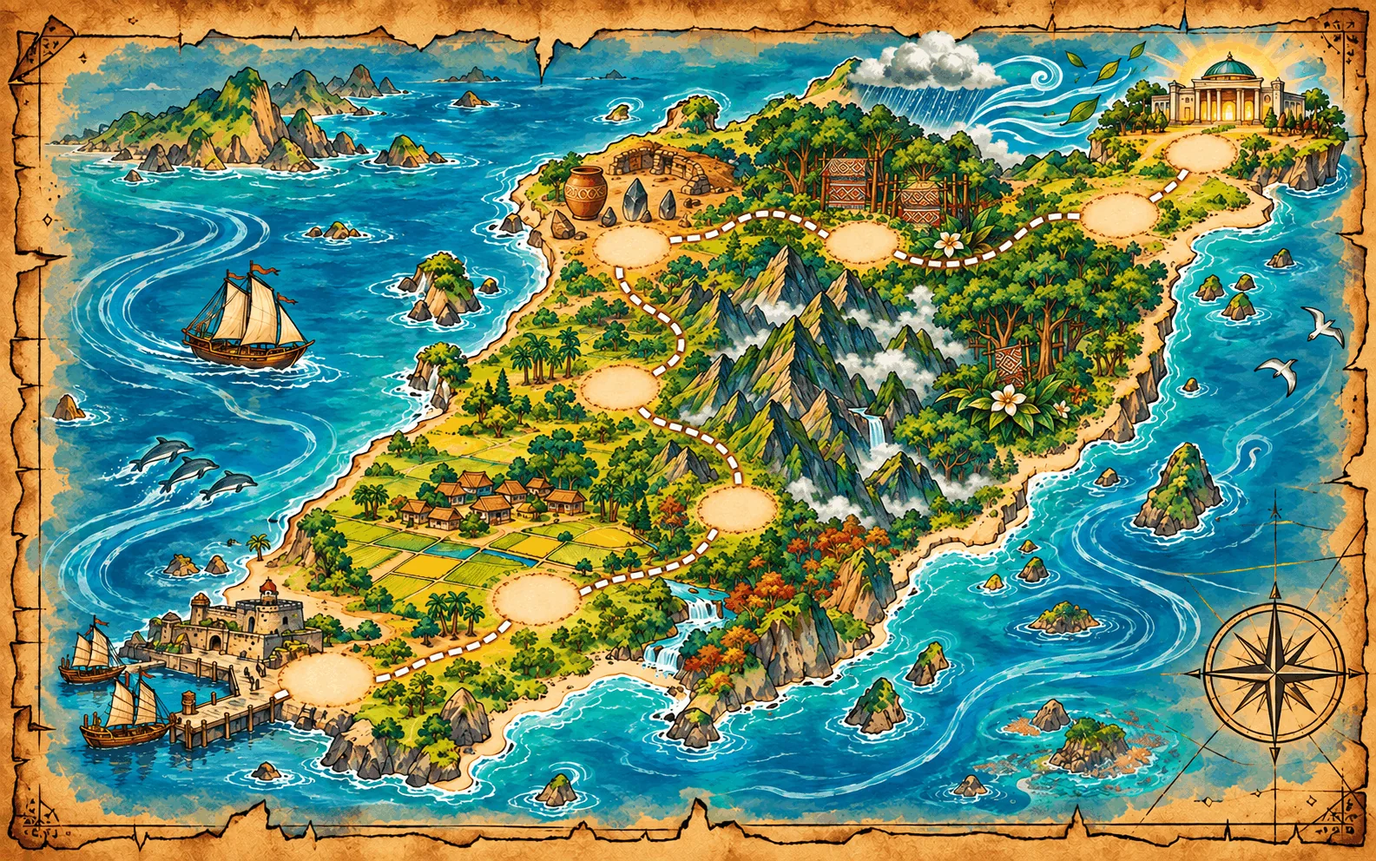
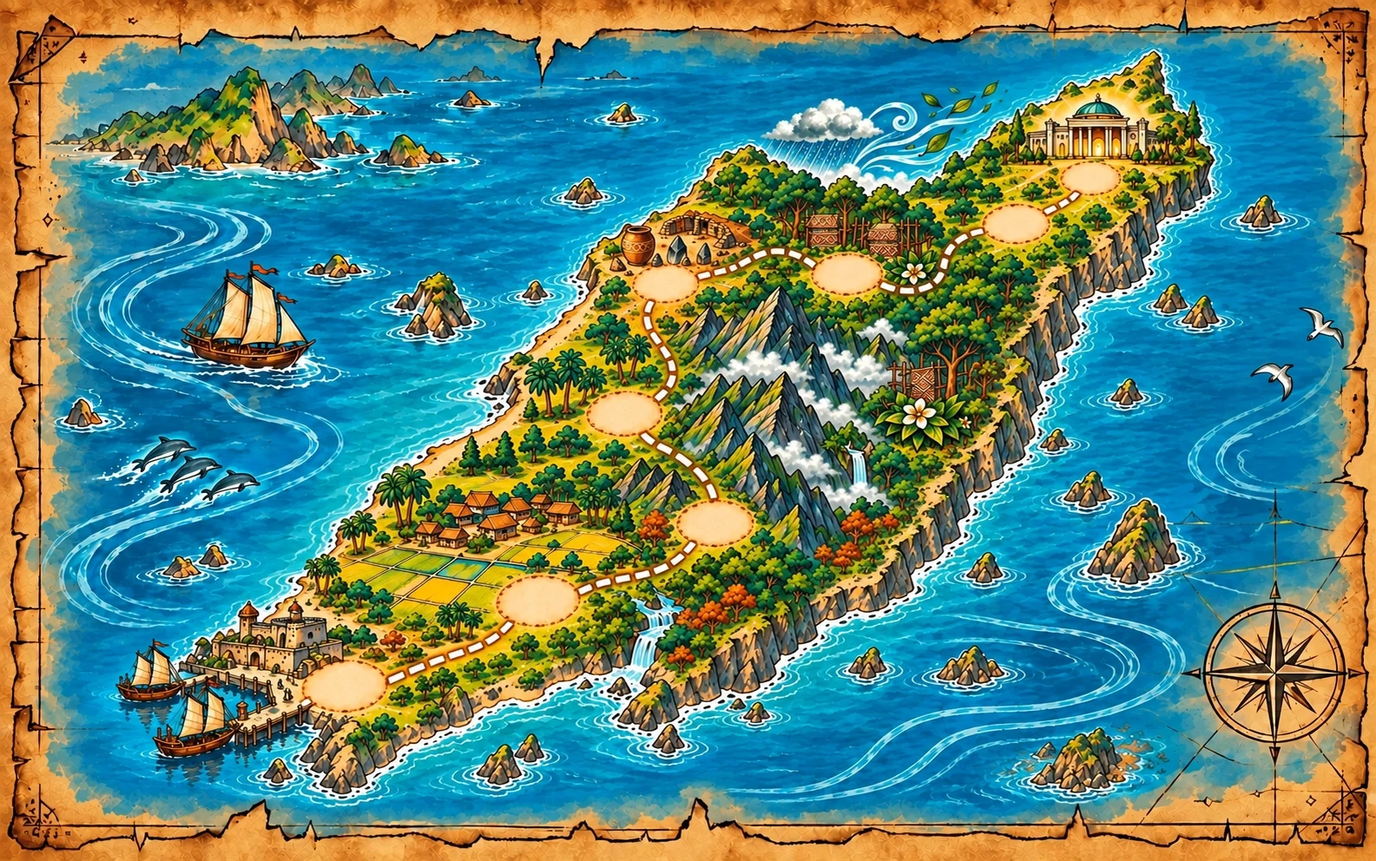
更新臺灣行動地圖與守護心延續機制

diff --git a/歷史文物守護行動完整版.html b/歷史文物守護行動完整版.html
@@ -112,7 +112,7 @@
     .map-level .map-label{font-size:.9rem}.map-level .map-label small{font-size:.85rem}
     @media(max-width:430px){.progress-track{display:none}.progress-label{font-size:.95rem}.tools{display:grid;grid-template-columns:repeat(3,minmax(0,1fr))}.progress{grid-column:1/-1}.tools .mini{padding-inline:5px}}
       .screen button:focus-visible{outline:4px solid var(--ink);outline-offset:3px}.hero button:focus-visible{outline-color:#ffe08a}.map-scroll:focus-visible{outline:4px solid var(--ink);outline-offset:3px}
-    .map-level.pos-1{left:24%;top:79%}.map-level.pos-2{left:39%;top:69%}.map-level.pos-3{left:54%;top:59%}.map-level.pos-4{left:45%;top:45%}.map-level.pos-5{left:45%;top:29%}.map-level.pos-6{left:63%;top:27%}.map-level.pos-7{left:81%;top:25%}.map-level.pos-8{left:88%;top:17%}
+    .map-level.pos-1{left:25%;top:80%}.map-level.pos-2{left:39%;top:69%}.map-level.pos-3{left:52%;top:60%}.map-level.pos-4{left:45%;top:48%}.map-level.pos-5{left:49%;top:33%}.map-level.pos-6{left:61%;top:32%}.map-level.pos-7{left:73%;top:26%}.map-level.pos-8{left:80%;top:20%}
     /* 四幕沿用各自插畫的留白，文字在獨立深色區域閱讀 */
     .story-stage{max-width:none}
     .story-card.has-art{position:relative;isolation:isolate;display:grid;grid-template-columns:minmax(0,1fr) minmax(0,1fr);min-height:640px;aspect-ratio:3/2;overflow:hidden;padding:0;background:#102b3e;color:#fff8e9;border:1px solid #d3a23f}
@@ -465,7 +465,7 @@ const levels=[
 const items=[
  {id:"compass",name:"航海羅盤",icon:"🧭",image:"assets/howto-01-compass.webp",unlock:1,desc:"每場可移除一個錯誤選項。"},
  {id:"lens",name:"線索放大鏡",icon:"🔍",image:"assets/howto-02-magnifier.webp",unlock:2,desc:"每場可先顯示一次提示。"},
- {id:"kit",name:"修復工具箱",icon:"🧰",image:"assets/item-restoration-kit.webp",unlock:4,desc:"每場可回復一顆守護心。"},
+ {id:"kit",name:"修復工具箱",icon:"🧰",image:"assets/item-restoration-kit.webp",unlock:1,desc:"每場可回復守護心。"},
  {id:"sand",name:"時序沙漏",icon:"⌛",image:"assets/item-hourglass.webp",unlock:5,desc:"每場可抵擋一次答錯傷害。"},
  {id:"stamp",name:"證據印章",icon:"🔖",image:"assets/item-evidence-stamp.webp",unlock:7,desc:"下一次答對造成兩點傷害。"}
 ];
@@ -503,12 +503,14 @@ const questionsForLevel=n=>difficulties[n-1].enemy;
 const app=document.querySelector("#app"),params=new URLSearchParams(location.search);
 const STORAGE_KEY="relicGuardian8-balanced-v2";
 const saved=(()=>{try{return JSON.parse(localStorage.getItem(STORAGE_KEY)||"{}") }catch{return {}}})();
-const state={playerName:typeof saved.playerName==="string"?saved.playerName:"",unlocked:Math.max(1,Math.min(8,saved.unlocked||1)),done:new Set(saved.done||[]),level:1,selectedItems:["compass"],usedItems:new Set(),clues:new Set(),spotOrder:[0,1],deck:[],qi:0,enemy:3,enemyMax:3,enemyAttack:1,hp:4,hpMax:4,attempt:0,armed:0,shield:0,eventDamage:0,revive:0,damageReduction:0,openingRemoveWrong:0,openingHint:false,entry:0,eventPlan:saved.eventPlan||{},eventSeen:new Set(saved.eventSeen||[]),pendingEvent:saved.pendingEvent||null,feedback:saved.feedback||{}};
+const maxHeartsFor=unlocked=>difficulties[Math.max(1,Math.min(8,unlocked))-1].hearts;
+const savedHp=Number.isFinite(saved.hp)?Math.max(0,Math.min(maxHeartsFor(saved.unlocked||1),saved.hp)):4;
+const state={playerName:typeof saved.playerName==="string"?saved.playerName:"",unlocked:Math.max(1,Math.min(8,saved.unlocked||1)),done:new Set(saved.done||[]),level:1,selectedItems:["compass"],usedItems:new Set(),clues:new Set(),spotOrder:[0,1],deck:[],qi:0,enemy:3,enemyMax:3,enemyAttack:1,hp:savedHp,hpMax:maxHeartsFor(saved.unlocked||1),attempt:0,armed:0,shield:0,eventDamage:0,revive:0,damageReduction:0,openingRemoveWrong:0,openingHint:false,entry:0,eventPlan:saved.eventPlan||{},eventSeen:new Set(saved.eventSeen||[]),pendingEvent:saved.pendingEvent||null,feedback:saved.feedback||{}};
 const esc=s=>String(s).replace(/[&<>"']/g,c=>({"&":"&amp;","<":"&lt;",">":"&gt;",'"':"&quot;","'":"&#39;"}[c]));
 const cleanName=value=>Array.from(String(value||"").replace(/\s+/g," ").trim()).slice(0,12).join("");
 const guardianName=()=>state.playerName||"守護員";
 state.playerName=cleanName(state.playerName);
-function save(){localStorage.setItem(STORAGE_KEY,JSON.stringify({playerName:state.playerName,unlocked:state.unlocked,done:[...state.done],eventPlan:state.eventPlan,eventSeen:[...state.eventSeen],pendingEvent:state.pendingEvent,feedback:state.feedback}))}
+function save(){localStorage.setItem(STORAGE_KEY,JSON.stringify({playerName:state.playerName,unlocked:state.unlocked,done:[...state.done],hp:state.hp,eventPlan:state.eventPlan,eventSeen:[...state.eventSeen],pendingEvent:state.pendingEvent,feedback:state.feedback}))}
 function render(html,focus=true){app.innerHTML=html;if(focus)app.focus();updateProgress()}
 function updateProgress(){const done=state.done.size,progress=document.querySelector("#progress");progress.setAttribute("aria-valuenow",done);progress.setAttribute("aria-valuetext","已修復 "+done+" 件，共 8 件");progress.innerHTML='<span class="progress-label">修復<strong>'+done+'<small> / 8</small></strong></span><span class="progress-track" aria-hidden="true">'+levels.map((_,i)=>'<span class="dot '+(state.done.has(i+1)?"on":"")+'"></span>').join("")+'</span>'}
 function toast(msg){const t=document.querySelector("#toast");t.textContent=msg;t.hidden=false;clearTimeout(toast.timer);toast.timer=setTimeout(()=>t.hidden=true,1900)}
@@ -520,17 +522,17 @@ const prologueScenes=[
 ];
 const prologueImages=["assets/prologue-01-museum-night.webp","assets/prologue-02-erasure.webp","assets/prologue-03-dangdang.webp","assets/prologue-04-eight-relics.webp"];
 function showPrologue(index=0){const s=prologueScenes[index],body=s.body.replaceAll("{{name}}",esc(guardianName()));render(`<section class="screen story-stage"><article class="story-card has-art scene-${index+1}" data-symbol="${s.symbol}"><img class="story-art" src="${prologueImages[index]}" alt="" aria-hidden="true"><div class="story-content"><div class="scene-mark">${s.phase}</div><span class="chapter-count">序章・第 ${index+1} 幕，共 ${prologueScenes.length} 幕</span><h2>${s.title}</h2><div class="story-copy">${body}</div><div class="chapter-progress" role="group" aria-label="序章進度">${prologueScenes.map((_,i)=>`<span class="${i===index?"on":""}" aria-current="${i===index?"step":"false"}"></span>`).join("")}</div><div class="row"><div>${index>0?`<button class="secondary" id="storyPrev">上一幕</button>`:""}</div><div class="row"><button class="secondary" id="storySkip">跳到玩法說明</button><button class="primary" id="storyNext">${index===prologueScenes.length-1?"查看玩法說明":"下一幕"}</button></div></div></div></article></section>`);const prev=document.querySelector("#storyPrev");if(prev)prev.onclick=()=>showPrologue(index-1);document.querySelector("#storySkip").onclick=showHowToPlay;document.querySelector("#storyNext").onclick=()=>index===prologueScenes.length-1?showHowToPlay():showPrologue(index+1)}
-function showHowToPlay(){render(`<section class="screen"><div class="how-head"><div class="eyebrow">${esc(guardianName())}的行動手冊</div><h2>四個步驟，找回文物</h2><p>每一關的玩法都一樣。讀完線索，再選出最合理的答案。</p></div><div class="how-grid"><article class="how-step"><div class="step-num">1</div><img class="step-art" src="assets/howto-01-compass.webp" alt="" aria-hidden="true"><h3>選擇道具</h3><p>出發前選一件道具。羅盤可以拿掉錯誤答案，放大鏡可以顯示提示。之後還會得到更多好用工具。</p></article><article class="how-step"><div class="step-num">2</div><img class="step-art" src="assets/howto-02-magnifier.webp" alt="" aria-hidden="true"><h3>尋找線索</h3><p>每關在場景中有兩個調查地點。點擊圖片，蒐集兩條關鍵線索後才能進入戰鬥。</p></article><article class="how-step"><div class="step-num">3</div><img class="step-art" src="assets/howto-03-answer-card.webp" alt="" aria-hidden="true"><h3>回答問題</h3><p>選出正確答案。每次答錯都會失去守護心，並將四個選項重新排列；答對就能攻擊敵人。</p></article><article class="how-step"><div class="step-num">4</div><img class="step-art" src="assets/howto-04-restored-vessel.webp" alt="" aria-hidden="true"><h3>修好文物</h3><p>打敗敵人後，你會找回文物並開啟下一關。找回全部八件文物，就能看到故事結局。</p></article></div><div class="guide-box"><b>檔檔提醒：</b>整趟冒險會在 3～5 場戰鬥前出現隨機事件，可能帶來幫助、知識挑戰或小危機。題目和答案的順序也可能改變，請讀懂內容，不要只記答案的位置。遊戲會自動保存進度、名字與事件紀錄。</div><div class="row" style="margin-top:22px"><button class="secondary" id="backStory">重看前置劇情</button><button class="primary" id="briefing">接受任務</button></div></section>`);document.querySelector("#backStory").onclick=()=>showPrologue(0);document.querySelector("#briefing").onclick=showTitle}
+function showHowToPlay(){render(`<section class="screen"><div class="how-head"><div class="eyebrow">${esc(guardianName())}的行動手冊</div><h2>四個步驟，找回文物</h2><p>每一關的玩法都一樣。讀完線索，再選出最合理的答案。</p></div><div class="how-grid"><article class="how-step"><div class="step-num">1</div><img class="step-art" src="assets/howto-01-compass.webp" alt="" aria-hidden="true"><h3>選擇道具</h3><p>出發前選一件道具。羅盤可以拿掉錯誤答案，放大鏡可以顯示提示。之後還會得到更多好用工具。</p></article><article class="how-step"><div class="step-num">2</div><img class="step-art" src="assets/howto-02-magnifier.webp" alt="" aria-hidden="true"><h3>尋找線索</h3><p>每關在場景中有兩個調查地點。點擊圖片，蒐集兩條關鍵線索後才能進入戰鬥。</p></article><article class="how-step"><div class="step-num">3</div><img class="step-art" src="assets/howto-03-answer-card.webp" alt="" aria-hidden="true"><h3>回答問題</h3><p>選出正確答案。每次答錯都會失去守護心，並將四個選項重新排列；答對就能攻擊敵人。</p></article><article class="how-step"><div class="step-num">4</div><img class="step-art" src="assets/howto-04-restored-vessel.webp" alt="" aria-hidden="true"><h3>修好文物</h3><p>打敗敵人後，你會找回文物並開啟下一關。找回全部八件文物，就能看到故事結局。</p></article></div><div class="guide-box"><b>檔檔提醒：</b>守護心會延續到下一關，不會自動補滿，只能靠隨機事件或修復工具箱回復。整趟冒險會在 3～5 場戰鬥前出現隨機事件；題目和答案的順序也可能改變，請讀懂內容，不要只記答案的位置。遊戲會自動保存進度、名字、守護心與事件紀錄。</div><div class="row" style="margin-top:22px"><button class="secondary" id="backStory">重看前置劇情</button><button class="primary" id="briefing">接受任務</button></div></section>`);document.querySelector("#backStory").onclick=()=>showPrologue(0);document.querySelector("#briefing").onclick=showTitle}
 function showTitle(){const current=cleanName(state.playerName);render(`<section class="screen hero"><div class="hero-copy"><div class="eyebrow">守護局任務・八關完整冒險</div><h2><span>守住文物</span><span>找回臺灣故事</span></h2><p>八件重要文物被黑霧帶走了。你要和嚮導檔檔一起出發，從古航海圖開始，尋找地理、環境和歷史線索，追上神祕的抹除者。</p><p>每找回一件文物，就能拼回一段故事。準備好了嗎？先告訴檔檔你的名字！</p><form class="name-form" id="nameForm" novalidate><label for="playerName">玩家名字</label><div class="name-row"><input class="name-input" id="playerName" name="playerName" type="text" maxlength="12" autocomplete="nickname" placeholder="請輸入 1～12 個字" value="${esc(current)}" aria-describedby="nameHelp nameError"><button class="primary" id="start" type="submit" ${current?"":"disabled"}>用這個名字出發</button></div><small class="name-help" id="nameHelp">名字會出現在後續劇情與戰鬥中，也會和遊戲進度一起保存。</small><p class="name-error" id="nameError" role="alert" aria-live="polite"></p></form></div><figure class="hero-art"><img src="assets/guardian-archive-hero.webp" alt=""></figure></section>`);const input=document.querySelector("#playerName"),start=document.querySelector("#start"),error=document.querySelector("#nameError");input.oninput=()=>{const valid=!!cleanName(input.value);start.disabled=!valid;input.setAttribute("aria-invalid",String(!valid));if(valid)error.textContent=""};document.querySelector("#nameForm").onsubmit=e=>{e.preventDefault();const name=cleanName(input.value);if(!name){input.setAttribute("aria-invalid","true");error.textContent="請先輸入名字，再開始任務。";input.focus();return}state.playerName=name;save();showMap()};(current?start:input).focus()}
 function showMap(){const nextIndex=levels.findIndex((_,i)=>i<state.unlocked&&!state.done.has(i+1)),nextLevel=nextIndex<0?Math.min(state.unlocked,8):nextIndex+1,nextTitle=levels[nextLevel-1].title,nextAction=state.done.has(nextLevel)?"重玩本關":"前往本關";render(`<section class="screen"><div class="map-head"><div><div class="eyebrow">文物守護局・行動地圖</div><h2>沿著守護路線，找回八件文物</h2><p>從西南方的港口出發，穿過平原、山脈、考古遺址與森林。每站先調查兩條線索，再用證據找回文物。</p></div><div class="map-next"><div><span class="map-next-label">${state.done.has(nextLevel)?"路線已修復・可再次出發":"下一步・目前任務"}</span><strong>第 ${nextLevel} 關・${esc(nextTitle)}</strong></div><button class="primary" id="mapStart">${nextAction}</button></div><span class="tag">已修復 ${state.done.size} / 8</span></div><div class="map-scroll" role="region" tabindex="0" aria-label="可左右捲動的八關地圖，使用 Tab 選擇已開放關卡"><div class="adventure-map">${levels.map((l,i)=>{const n=i+1,locked=n>state.unlocked,done=state.done.has(n),d=difficulties[i],status=locked?"尚未開放":done?"已修復":n===nextLevel?"下一站":"已開放";return `<button class="map-level pos-${n} ${locked?"locked":done?"done":n===nextLevel?"current":"available"}" data-level="${n}" ${locked?"disabled":""} aria-label="第 ${n} 關，${esc(l.title)}，${status}" title="${esc(l.unit)}｜難度：${d.name}"><span class="map-number">${n}</span><span class="marker" aria-hidden="true">${locked?"🔒":l.icon}</span><span class="map-label">${esc(l.title)}<small>${status}</small></span></button>`}).join("")}</div></div><div class="map-legend" aria-label="地圖圖例"><span class="map-key"><i class="now" aria-hidden="true"></i>下一站</span><span class="map-key"><i class="finished" aria-hidden="true"></i>已修復</span><span class="map-key"><i class="closed" aria-hidden="true"></i>尚未開放</span><span class="tag">手機可左右滑動地圖</span></div><div class="row" style="margin-top:20px"><div class="row"><button class="secondary" id="story">重看前置劇情</button><button class="secondary" id="rules">玩法說明</button></div><button class="secondary" id="reset">清除進度</button></div></section>`);document.querySelector("#mapStart").onclick=()=>prepare(nextLevel);document.querySelectorAll(".map-level:not(.locked)").forEach(b=>b.onclick=()=>prepare(+b.dataset.level));document.querySelector("#story").onclick=()=>showPrologue(0);document.querySelector("#rules").onclick=showHowToPlay;document.querySelector("#reset").onclick=()=>{if(confirm("確定要清除八關進度，從第一關重新開始嗎？")){localStorage.removeItem(STORAGE_KEY);location.reload()}}}
 function itemEffect(id,n=state.level){if(id==="compass")return `排除 ${n>=5?2:1} 個錯誤選項。`;if(id==="lens")return n>=5?"顯示提示並排除 1 個錯誤選項。":"顯示本題提示。";if(id==="kit")return n>=7?"補滿全部守護心。":`回復 ${n>=4?3:2} 顆守護心。`;if(id==="sand")return `抵擋 ${n>=7?2:1} 次敵人攻擊。`;return `下一次答對造成 ${n>=8?3:2} 點傷害。`}
 function prepare(n){
  state.level=n;state.entry++;state.spotOrder=shuffled([0,1],n*31+state.entry);
- const available=items.filter(x=>x.unlock<=state.unlocked),limit=n===8?2:1;
+ const available=state.hp<=0?items.filter(x=>x.id==="kit"):items.filter(x=>x.unlock<=state.unlocked),limit=n===8?2:1;
  state.selectedItems=[];
  const l=levels[n-1],d=difficulties[n-1];
  render(`<section class="screen departure"><div class="eyebrow">第 ${n} 關・${esc(l.unit)}</div><h2>${l.icon} ${esc(l.title)}</h2>
- <div class="departure-brief"><div><span class="speaker">檔檔・文物嚮導</span><p><b>${esc(guardianName())}，</b>${esc(l.intro[0])}</p><p>${esc(l.intro[1])}</p></div><div class="departure-facts" aria-label="本關難度資訊"><span>難度 ${d.name}</span><span>敵人 ${d.enemy} HP・攻擊 ${d.attack}</span><span>守護心 ${d.hearts}</span></div></div>
+ <div class="departure-brief"><div><span class="speaker">檔檔・文物嚮導</span><p><b>${esc(guardianName())}，</b>${esc(l.intro[0])}</p><p>${esc(l.intro[1])}</p></div><div class="departure-facts" aria-label="本關難度資訊"><span>難度 ${d.name}</span><span>敵人 ${d.enemy} HP・攻擊 ${d.attack}</span><span>守護心 ${state.hp} / ${maxHeartsFor(state.unlocked)}</span></div></div>
  <section class="loadout-panel" aria-labelledby="loadoutTitle"><div class="loadout-head"><div><div class="eyebrow">出發前，先完成這一步</div><h3 id="loadoutTitle">從 ${available.length} 件道具中${limit===2?"最多選 2 件":"選 1 件"}</h3><p>${limit===2?"點選一件或兩件道具，再開始調查。":"點選下方其中一件道具，再開始調查。"}</p></div><span class="loadout-status" id="itemCount" role="status" aria-live="polite">尚未選擇</span></div>
  <div class="item-grid" role="group" aria-label="可選道具">${available.map(x=>`<button class="item" type="button" data-item="${x.id}" aria-pressed="false">${itemArt(x,"item-art")}<b>${esc(x.name)}</b><small>${esc(itemEffect(x.id,n))}</small><span class="item-state">點選選擇</span></button>`).join("")}</div>
  <div class="loadout-foot"><button class="secondary" id="back">返回地圖</button><button class="primary" id="go" disabled>請先選擇道具</button></div></section></section>`);
@@ -662,22 +664,22 @@ function eventShell(event,actions){render(`<section class="screen event-screen">
 function finishEvent(event,effect,result,forced){state.pendingEvent={level:state.level,effect};if(!forced){state.eventSeen.add(state.level);save()}render(`<section class="screen event-screen"><div class="eyebrow">事件結果</div><article class="event-card"><div class="event-icon" aria-hidden="true">${event.icon}</div><span class="tag">${EVENT_CATEGORY_NAMES[event.category]}</span><h2>${esc(event.name)}</h2><div class="event-result" role="status">${esc(result)}</div><div class="event-choices one"><button class="primary" id="eventBattle" type="button">帶著結果進入戰鬥</button></div></article></section>`);document.querySelector("#eventBattle").onclick=startBattle}
 function showEventQuiz(event,forced){const l=levels[state.level-1],offset=event.id==="label"?5:2,raw=l.qs[(state.level*3+offset)%l.qs.length],choices=shuffled(raw[1].map((text,original)=>({text,correct:original===raw[2]})),state.level*503+state.entry*19+offset),correct=choices.findIndex(x=>x.correct);render(`<section class="screen event-screen"><div class="eyebrow">戰鬥前・隨機事件</div><article class="event-card"><div class="event-icon" aria-hidden="true">${event.icon}</div><span class="tag">${EVENT_CATEGORY_NAMES[event.category]}</span><h2>${esc(event.name)}</h2><p>${esc(event.text)}</p><div class="event-quiz"><h3 class="question">${event.id==="label"?"選出能補完整標籤的資料：":"判斷這張資料卡："}${esc(raw[0])}</h3><div class="answers">${choices.map((a,i)=>`<button class="answer" type="button" data-event-answer="${i}"><span class="answer-letter">${String.fromCharCode(65+i)}</span><span>${esc(a.text)}</span><span class="answer-state"></span></button>`).join("")}</div></div></article></section>`);document.querySelectorAll("[data-event-answer]").forEach(b=>b.onclick=()=>{const picked=+b.dataset.eventAnswer,isCorrect=picked===correct,effect=isCorrect?(event.id==="truth"?{shield:1}:{enemyDamage:1}):{},reward=event.id==="truth"?"獲得一次護盾。":"敵人開場減少 1 點迷霧強度。",result=isCorrect?`答對了！「${choices[picked].text}」是正確答案。${raw[4]} ${reward}`:`「${choices[picked].text}」不是正確答案。${raw[3]} 正確答案是「${choices[correct].text}」。${raw[4]} 這次不會扣除守護心。`;finishEvent(event,effect,result,forced)})}
 function showRandomEvent(id,forced=false){const event=randomEvents.find(e=>e.id===id);if(!event)return startBattle();if(event.id==="truth"||event.id==="label")return showEventQuiz(event,forced);const finish=(effect,result)=>finishEvent(event,effect,result,forced);let actions=[];
- if(event.id==="repair")actions=[{key:"repair",label:"接受修復",run:()=>finish({bonusHp:1},"修復完成！本場戰鬥增加 1 點守護心上限。")}];
+ if(event.id==="repair")actions=[{key:"repair",label:"接受修復",run:()=>finish({heal:1},"修復完成！回復 1 點守護心。")}];
  else if(event.id==="letter")actions=[{key:"read",label:"閱讀密函",run:()=>finish({removeWrong:1},"密函指出了辨認假線索的方法。第一題將自動排除一個錯誤選項。")}];
- else if(event.id==="supply"){const pool=items.filter(x=>x.unlock<=state.unlocked&&!state.selectedItems.includes(x.id)),rng=random(state.level*601+state.entry),item=pool[Math.floor(rng()*pool.length)];actions=[{key:"open",label:"打開補給箱",run:()=>item?finish({extraItem:item.id},`你借到「${item.name}」，本場可以額外使用一次。`):finish({bonusHp:1},"補給箱裡是修復材料，本場增加 1 點守護心上限。")}];}
+ else if(event.id==="supply"){const pool=items.filter(x=>x.unlock<=state.unlocked&&!state.selectedItems.includes(x.id)),rng=random(state.level*601+state.entry),item=pool[Math.floor(rng()*pool.length)];actions=[{key:"open",label:"打開補給箱",run:()=>item?finish({extraItem:item.id},`你借到「${item.name}」，本場可以額外使用一次。`):finish({heal:1},"補給箱裡有修復材料，回復 1 點守護心。")}];}
  else if(event.id==="tailwind")actions=[{key:"follow",label:"乘著順風前進",run:()=>finish({bonusDamage:1},"證據之光變強了！本場第一次答對會額外造成 1 點傷害。")}];
  else if(event.id==="ambush")actions=[{key:"guard",label:"保護線索",run:()=>finish({hpPenalty:1,openingHint:true},"你保住了線索，但消耗 1 點守護心。第一題會顯示提示，守護心不會因此低於 1。")}];
- else if(event.id==="fork")actions=[{key:"safe",label:"走安全小路",run:()=>finish({bonusHp:1},"安全抵達！本場增加 1 點守護心上限。")},{key:"clue",label:"追蹤線索小路",run:()=>finish({enemyDamage:1},"你找到了迷霧的弱點，敵人開場減少 1 點迷霧強度。")}];
- else if(event.id==="trader")actions=[{key:"heal",label:"選擇修復包",run:()=>finish({bonusHp:1},"修復包讓本場增加 1 點守護心上限。")},{key:"power",label:"選擇證據徽章",run:()=>finish({bonusDamage:1},"證據徽章已啟動，第一次答對額外造成 1 點傷害。")}];
+ else if(event.id==="fork")actions=[{key:"safe",label:"走安全小路",run:()=>finish({heal:1},"安全抵達！回復 1 點守護心。")},{key:"clue",label:"追蹤線索小路",run:()=>finish({enemyDamage:1},"你找到了迷霧的弱點，敵人開場減少 1 點迷霧強度。")}];
+ else if(event.id==="trader")actions=[{key:"heal",label:"選擇修復包",run:()=>finish({heal:1},"修復包讓你回復 1 點守護心。")},{key:"power",label:"選擇證據徽章",run:()=>finish({bonusDamage:1},"證據徽章已啟動，第一次答對額外造成 1 點傷害。")}];
  else if(event.id==="rescue")actions=[{key:"promise",label:"接受支援",run:()=>finish({revive:1},"本場第一次守護心歸零時，支援隊會讓你恢復 1 點並繼續戰鬥。")}];
  else if(event.id==="echo"){const restored=[...state.done].map(n=>levels[n-1]).filter(Boolean),rng=random(state.level*607+state.entry),card=restored[Math.floor(rng()*restored.length)];actions=[{key:"listen",label:"聆聽文物回音",run:()=>card?finish({enemyDamage:1},`知識卡「${card.card}」再次發光：${card.fact} 敵人開場減少 1 點迷霧強度。`):finish({shield:1},"這是第一件文物的鼓勵。本場獲得一次護盾。")}];}
  else if(event.id==="blackout")actions=[{key:"light",label:"打開手電筒",run:()=>finish({removeWrong:2},"手電筒照亮關鍵資料，第一題將排除兩個錯誤選項。")},{key:"protect",label:"保護展櫃",run:()=>finish({shield:1},"你守住了展櫃，本場獲得一次護盾。")}];
  else if(event.id==="teamwork")actions=[{key:"search",label:"請檔檔搜尋線索",run:()=>finish({openingHint:true},"檔檔找到關鍵筆記，第一題會直接顯示提示。")},{key:"guard",label:"請檔檔保護隊伍",run:()=>finish({damageReduction:1},"檔檔會協助抵擋敵人第一次攻擊，使傷害減少 1 點。")}];
  else if(event.id==="exchange")actions=[{key:"accept",label:"接受交換",run:()=>finish({hpPenalty:1,enemyDamage:2},"你交出 1 點守護心，敵人開場減少 2 點迷霧強度；雙方最低都會保留 1 點。")},{key:"reject",label:"拒絕交換",run:()=>finish({},"你沒有接受可疑交易，能力維持不變。")}];
- else {const rng=random(state.level*613+state.entry),prizes=[[{bonusHp:1},"車票化成修復光芒，本場增加 1 點守護心上限。"],[{shield:1},"車票化成防護罩，本場獲得一次護盾。"],[{bonusDamage:1},"車票強化了證據之光，第一次答對額外造成 1 點傷害。"]],prize=prizes[Math.floor(rng()*prizes.length)];actions=[{key:"draw",label:"翻開幸運票",run:()=>finish(prize[0],prize[1])}];}
+ else {const rng=random(state.level*613+state.entry),prizes=[[{heal:1},"車票化成修復光芒，回復 1 點守護心。"],[{shield:1},"車票化成防護罩，本場獲得一次護盾。"],[{bonusDamage:1},"車票強化了證據之光，第一次答對額外造成 1 點傷害。"]],prize=prizes[Math.floor(rng()*prizes.length)];actions=[{key:"draw",label:"翻開幸運票",run:()=>finish(prize[0],prize[1])}];}
  eventShell(event,actions);document.querySelectorAll("[data-event-choice]").forEach(b=>b.onclick=()=>actions.find(a=>a.key===b.dataset.eventChoice).run())}
 function requestBattle(){const forced=params.get("event"),known=randomEvents.some(e=>e.id===forced);if(known)return showRandomEvent(forced,true);const id=state.eventPlan[state.level];id&&!state.eventSeen.has(state.level)?showRandomEvent(id):startBattle()}
-function startBattle(){const d=difficulties[state.level-1],effect=state.pendingEvent?.level===state.level?state.pendingEvent.effect||{}:{};state.qi=0;state.deck=makeDeck();state.enemyMax=d.enemy;state.enemy=Math.max(1,d.enemy-(effect.enemyDamage||0));state.enemyAttack=d.attack;state.hpMax=d.hearts+(effect.bonusHp||0);state.hp=Math.max(1,state.hpMax-(effect.hpPenalty||0));state.attempt=0;state.usedItems=new Set();state.armed=0;state.shield=effect.shield||0;state.eventDamage=effect.bonusDamage||0;state.revive=effect.revive||0;state.damageReduction=effect.damageReduction||0;state.openingRemoveWrong=effect.removeWrong||0;state.openingHint=!!effect.openingHint;if(effect.extraItem&&!state.selectedItems.includes(effect.extraItem))state.selectedItems.push(effect.extraItem);state.battleIntro=true;renderBattle()}
+function startBattle(){const d=difficulties[state.level-1],effect=state.pendingEvent?.level===state.level?state.pendingEvent.effect||{}:{};state.qi=0;state.deck=makeDeck();state.enemyMax=d.enemy;state.enemy=Math.max(1,d.enemy-(effect.enemyDamage||0));state.enemyAttack=d.attack;state.hpMax=maxHeartsFor(state.unlocked);state.hp=Math.min(state.hpMax,state.hp+(effect.heal||0));if(effect.hpPenalty&&state.hp>0)state.hp=Math.max(1,state.hp-effect.hpPenalty);state.attempt=0;state.usedItems=new Set();state.armed=0;state.shield=effect.shield||0;state.eventDamage=effect.bonusDamage||0;state.revive=effect.revive||0;state.damageReduction=effect.damageReduction||0;state.openingRemoveWrong=effect.removeWrong||0;state.openingHint=!!effect.openingHint;if(effect.extraItem&&!state.selectedItems.includes(effect.extraItem))state.selectedItems.push(effect.extraItem);state.pendingEvent=null;save();state.battleIntro=true;renderBattle()}
 function renderBattle(message="選出最合理的答案。答錯會受到攻擊，選項會重新排列。"){const l=levels[state.level-1],q=state.deck[state.qi],equipped=state.selectedItems.map(id=>items.find(x=>x.id===id)).filter(Boolean),d=difficulties[state.level-1],n=state.level,nn=String(n).padStart(2,"0"),intro=!!state.battleIntro;state.battleIntro=false;state.busy=false;
  render(`<section class="screen battle-screen lv-${n}${intro?" is-intro":""}" aria-label="證據戰鬥">
  <div class="bt-stage" style="--bb:url('assets/explore-scene-${nn}.webp')">
@@ -703,14 +705,14 @@ function removeWrong(buttons,q,count){buttons.filter(b=>+b.dataset.a!==q.correct
 function itemFx(id,amount){const ally=$b("#ally"),it=items.find(x=>x.id===id);if(!ally||!it)return;fxItem(ally,it.image);const logs={compass:"航海羅盤轉動，指出錯誤的方向！",lens:"線索放大鏡照出關鍵提示！",kit:"修復工具箱修好了守護心！",sand:"時序沙漏張開了防護罩！",stamp:"證據印章蓄力中，下一擊威力加倍！"};battleLog(logs[id]);if(id==="kit"){sfxPlay("heal");fxBurst(ally,"heal");if(amount)fxPop(ally,`+${amount}`,"heal")}else if(id==="sand"){sfxPlay("block");fxBurst(ally,"shield")}else{sfxPlay("item");fxBurst(ally,"ring")}updateParty()}
 function useItem(id){if(state.usedItems.has(id)||state.busy)return;const q=state.deck[state.qi],buttons=[...document.querySelectorAll(".answer")],late=state.level>=5;state.usedItems.add(id);if(id==="compass"){const count=late?2:1;removeWrong(buttons,q,count);setStatus(`羅盤排除了 ${count} 個錯誤方向。`)}
  else if(id==="lens"){if(late)removeWrong(buttons,q,1);setStatus(`提示：${q.hint}${late?" 並已排除一個錯誤選項。":""}`)}
- else if(id==="kit"){if(state.hp===state.hpMax){state.usedItems.delete(id);setStatus("守護心目前是滿的，工具箱留到受傷後再用。");return}const before=state.hp,heal=state.level>=7?state.hpMax:state.level>=4?3:2;state.hp=Math.min(state.hpMax,state.hp+heal);renderBattle(`工具箱修復了守護心，目前 ${state.hp} / ${state.hpMax}。`);itemFx(id,state.hp-before);return}
+ else if(id==="kit"){if(state.hp===state.hpMax){state.usedItems.delete(id);setStatus("守護心目前是滿的，工具箱留到受傷後再用。");return}const before=state.hp,heal=state.level>=7?state.hpMax:state.level>=4?3:2;state.hp=Math.min(state.hpMax,state.hp+heal);save();renderBattle(`工具箱修復了守護心，目前 ${state.hp} / ${state.hpMax}。`);itemFx(id,state.hp-before);return}
  else if(id==="sand"){state.shield=state.level>=7?2:1;setStatus(`沙漏已啟動：可以抵擋 ${state.shield} 次敵人攻擊。`)}
  else {state.armed=state.level>=8?3:2;setStatus(`證據印章蓄力完成：下一次答對造成 ${state.armed} 點傷害。`)}
  const b=document.querySelector(`[data-use="${id}"]`);if(b){const it=items.find(x=>x.id===id);b.disabled=true;b.innerHTML=`${itemArt(it,"item-mini-art")}<span><b>${esc(it.name)}・已使用</b><small>${esc(itemEffect(id))}</small></span>`}itemFx(id)}
 function setStatus(s){document.querySelector("#status").textContent=s}
-function answer(choice){if(state.busy)return;const q=state.deck[state.qi],buttons=[...document.querySelectorAll(".answer")],picked=q.choices[choice].text;if(choice===q.correct){state.busy=true;lockBattleItems();buttons.forEach(b=>b.disabled=true);buttons[choice].classList.add("correct");buttons[choice].querySelector(".answer-state").textContent="答對";const dmg=(state.armed||1)+(state.eventDamage||0);state.armed=0;state.eventDamage=0;state.enemy=Math.max(0,state.enemy-dmg);setStatus(`答對了！「${picked}」是正確答案。${q.explain}${dmg>1?` 這次共造成 ${dmg} 點傷害。`:""}`);const defeated=state.enemy<=0;animHeroAttack(dmg,defeated).then(()=>showContinue(defeated?"取回文物":"下一題",nextTurn))}else{state.busy=true;lockBattleItems();buttons.forEach(b=>b.disabled=true);buttons[choice].classList.add("wrong");buttons[choice].querySelector(".answer-state").textContent="答錯";state.attempt++;const lostFrom=state.hp,wrongExplain=`「${picked}」不是正確答案，因為它不符合這題要判斷的重點。${q.hint}`;let blocked=false,support=false,damage=state.enemyAttack,message;if(state.shield>0){state.shield--;blocked=true;damage=0;message=`${wrongExplain} 護盾擋住了攻擊，選項已重新排列。`}else{const reduction=state.damageReduction;state.damageReduction=0;damage=Math.max(0,state.enemyAttack-reduction);support=reduction>0;state.hp=Math.max(0,state.hp-damage);message=`${wrongExplain}${support?` 檔檔協助減少 ${reduction} 點傷害，`:" "}守護心 -${damage}，選項已重新排列。`}if(state.hp<=0&&state.revive>0){state.revive--;state.hp=1;message+=` 支援隊及時趕到，守護心恢復 1 點！`}const down=state.hp<=0;setStatus(blocked?`護盾擋住了 ${state.enemyAttack} 點傷害。`:damage?`敵人造成 ${damage} 點傷害。`:`檔檔擋住了這次攻擊。`);animFoeAttack(blocked||damage===0,down,lostFrom,damage,support).then(()=>{if(down)return showContinue("繼續",nextTurn);reshuffleCurrentChoices();renderBattle(message)})}}
+function answer(choice){if(state.busy)return;const q=state.deck[state.qi],buttons=[...document.querySelectorAll(".answer")],picked=q.choices[choice].text;if(choice===q.correct){state.busy=true;lockBattleItems();buttons.forEach(b=>b.disabled=true);buttons[choice].classList.add("correct");buttons[choice].querySelector(".answer-state").textContent="答對";const dmg=(state.armed||1)+(state.eventDamage||0);state.armed=0;state.eventDamage=0;state.enemy=Math.max(0,state.enemy-dmg);setStatus(`答對了！「${picked}」是正確答案。${q.explain}${dmg>1?` 這次共造成 ${dmg} 點傷害。`:""}`);const defeated=state.enemy<=0;animHeroAttack(dmg,defeated).then(()=>showContinue(defeated?"取回文物":"下一題",nextTurn))}else{state.busy=true;lockBattleItems();buttons.forEach(b=>b.disabled=true);buttons[choice].classList.add("wrong");buttons[choice].querySelector(".answer-state").textContent="答錯";state.attempt++;const lostFrom=state.hp,wrongExplain=`「${picked}」不是正確答案，因為它不符合這題要判斷的重點。${q.hint}`;let blocked=false,support=false,damage=state.enemyAttack,message;if(state.shield>0){state.shield--;blocked=true;damage=0;message=`${wrongExplain} 護盾擋住了攻擊，選項已重新排列。`}else{const reduction=state.damageReduction;state.damageReduction=0;damage=Math.max(0,state.enemyAttack-reduction);support=reduction>0;state.hp=Math.max(0,state.hp-damage);message=`${wrongExplain}${support?` 檔檔協助減少 ${reduction} 點傷害，`:" "}守護心 -${damage}，選項已重新排列。`}if(state.hp<=0&&state.revive>0){state.revive--;state.hp=1;message+=` 支援隊及時趕到，守護心恢復 1 點！`}const down=state.hp<=0;save();setStatus(blocked?`護盾擋住了 ${state.enemyAttack} 點傷害。`:damage?`敵人造成 ${damage} 點傷害。`:`檔檔擋住了這次攻擊。`);animFoeAttack(blocked||damage===0,down,lostFrom,damage,support).then(()=>{if(down)return showContinue("繼續",nextTurn);reshuffleCurrentChoices();renderBattle(message)})}}
 function nextTurn(){if(state.enemy<=0)return showReward();if(state.hp<=0)return showLose();state.qi++;state.attempt=0;if(state.qi>=state.deck.length)return showLose();renderBattle()}
-function showLose(){const l=levels[state.level-1];render(`<section class="screen reward"><div class="big" aria-hidden="true">🧩</div><div class="eyebrow">證據還差一點</div><h2>${esc(guardianName())}，${esc(l.enemy)}尚未完全修復</h2><p>沒關係，失敗不會扣除進度。重新整理線索，再試一次。</p><div class="row" style="justify-content:center"><button class="secondary" id="explore">重看探索線索</button><button class="primary" id="retry">重新挑戰</button></div></section>`);document.querySelector("#explore").onclick=renderExplore;document.querySelector("#retry").onclick=startBattle}
+function showLose(){const l=levels[state.level-1];render(`<section class="screen reward"><div class="big" aria-hidden="true">🧩</div><div class="eyebrow">證據還差一點</div><h2>${esc(guardianName())}，${esc(l.enemy)}尚未完全修復</h2><p>守護心不會自動補滿。重新整備並帶上修復工具箱，再試一次。</p><div class="row" style="justify-content:center"><button class="secondary" id="explore">重看探索線索</button><button class="primary" id="retry">重新選擇道具</button></div></section>`);document.querySelector("#explore").onclick=renderExplore;document.querySelector("#retry").onclick=()=>prepare(state.level)}
 function showReward(){const l=levels[state.level-1],n=String(state.level).padStart(2,"0");state.done.add(state.level);state.unlocked=Math.max(state.unlocked,Math.min(8,state.level+1));state.pendingEvent=null;save();render(`<section class="screen reward reward-done"><figure class="reward-visual ${state.level===2||state.level===7?"reward-place-left":""}"><img src="assets/reward-artifact-${n}.webp" alt="${esc(l.artifact)}與${esc(l.title)}場景的修復插畫" width="1672" height="941"><figcaption class="reward-brief"><div class="eyebrow">第 ${n} 關・${esc(l.title)}　修復完成</div><h2>${esc(l.artifact)}已找回</h2><p class="reward-fact">${esc(l.fact)}</p><span class="tag">知識卡・${esc(l.card)}</span></figcaption></figure><div class="reward-footer"><p><strong>檔檔・文物嚮導：</strong><b>做得好，${esc(guardianName())}！</b> ${esc(l.outro)}</p><button class="primary" id="continue">${state.level===8?"觀看守護行動結局":"前往下一關"}</button></div></section>`);document.querySelector("#continue").onclick=()=>state.level===8?showFinal():prepare(state.level+1)}
 function showFinal(){const name=esc(guardianName());render(`<section class="screen"><div class="eyebrow">合・守護行動完成</div><h2>${name}，八件文物都回來了</h2><div class="finale"><p>${name}答對最後一題後，金色的光照亮整座博物館。古航海圖重新畫出航線，地形模型恢復原狀，季風曆也再次開始運作。八件文物回到展櫃，一起說出臺灣的故事。</p><p>黑霧慢慢散去。抹除者變回一張老舊的資料卡，上面寫著：「把所有資料分成同一類。」</p><div class="story-quote"><b>抹除者：</b>「我以為刪掉不同的說法，就不會有人爭吵。可是這些不同的線索，為什麼可以拼成一個完整故事？」</div><p><b>檔檔回答：</b>「因為每一份資料都只能告訴我們一部分事情。把地圖、文物、環境和人的記憶放在一起，我們才能更了解過去。」</p><p>${name}把一張空白資料卡交給抹除者，請牠不要再刪除故事，而是好好記下資料從哪裡來。抹除者點點頭，為自己取了新名字：<b>「故事記錄員」</b>。</p></div><div class="ending-grid"><article class="ending-card"><div class="big" aria-hidden="true">🌊</div><h3>海洋帶來交流</h3><p>臺灣四面環海。海洋不只把地方隔開，也能讓人、物品和文化互相交流。</p></article><article class="ending-card"><div class="big" aria-hidden="true">🌿</div><h3>環境影響生活</h3><p>地形、氣候和資源會影響人們住在哪裡、做什麼工作，以及如何保護環境。</p></article><article class="ending-card"><div class="big" aria-hidden="true">📚</div><h3>線索幫助我們了解過去</h3><p>文物和歷史資料都很重要。比較不同線索，能讓我們看見更完整的故事。</p></article></div><div class="epilogue"><h3>尾聲・${name}的新守護任務</h3><p>博物館重新開門後，展牌旁多了一個問題：「${name}還想知道誰的故事？」孩子們開始提問，長輩分享回憶，研究人員也繼續尋找新的資料。大家一起讓故事變得更完整。</p><p>檔檔把守護者徽章送給${name}。牠說：「遊戲雖然結束了，守護任務還沒有結束。當${name}願意查清楚一段消息、尊重不同想法，或保護自然與文物時，${name}就是真正的守護員。」</p><div class="vow"><b>${name}的守護員誓詞</b><br>我會查清楚資料，聽聽不同的想法；<br>珍惜自然和文物，並用行動保護它們。</div></div><div class="feedback-box"><h3>請留下試玩回饋</h3><p>可以選擇多個答案。資料只會保存在這台瀏覽器。</p><div class="feedback-buttons">${[["readable","文字容易理解"],["fun","我願意繼續玩"],["long","有些內容太長"],["hard","有些題目太難"]].map(x=>`<button class="secondary ${state.feedback[x[0]]?"chosen":""}" data-f="${x[0]}" aria-pressed="${!!state.feedback[x[0]]}">${x[1]}</button>`).join("")}</div><p id="thanks" aria-live="polite"></p></div><div class="row" style="margin-top:22px"><button class="secondary" id="map">回到關卡地圖</button><button class="primary" id="replay">再次觀看結局</button></div></section>`);document.querySelectorAll("[data-f]").forEach(b=>b.onclick=()=>{const k=b.dataset.f;state.feedback[k]=!state.feedback[k];b.classList.toggle("chosen",state.feedback[k]);b.setAttribute("aria-pressed",String(state.feedback[k]));save();document.querySelector("#thanks").textContent="謝謝！你的回饋已記錄。"});document.querySelector("#map").onclick=showMap;document.querySelector("#replay").onclick=showFinal}
 function selfCheck(){const errors=[];if(levels.length!==8)errors.push("關卡不是 8 關");levels.forEach((l,i)=>{if(l.qs.length!==10)errors.push(`第 ${i+1} 關題庫不是 10 題`);if(new Set(l.qs.map(q=>q[0])).size!==l.qs.length)errors.push(`第 ${i+1} 關有重複題目`);if(l.spots.length!==2)errors.push(`第 ${i+1} 關探索點錯誤`);l.qs.forEach((q,j)=>{if(q[1].length!==4||q[2]<0||q[2]>3)errors.push(`第 ${i+1}-${j+1} 題格式錯誤`)});const count=questionsForLevel(i+1),sample=drawQuestionIndexes(l.qs.length,i,count);if(count!==difficulties[i].enemy||sample.length!==count||new Set(sample).size!==count)errors.push(`第 ${i+1} 關抽題數量或重複檢查錯誤`)});difficulties.forEach((d,i)=>{if(i&&d.enemy<difficulties[i-1].enemy)errors.push("敵人血量未逐關提高");if(i&&d.attack<difficulties[i-1].attack)errors.push("敵人攻擊未逐關提高");if(d.attack<1||d.hearts<=d.attack)errors.push(`第 ${i+1} 關平衡值錯誤`)});if(difficulties.at(-1).attack!==4)errors.push("最終關攻擊力不是 4");if(randomEvents.length!==15||new Set(randomEvents.map(e=>e.id)).size!==15)errors.push("隨機事件不是 15 種唯一事件");if(Math.abs(Object.values(EVENT_WEIGHTS).reduce((a,b)=>a+b,0)-1)>.0001)errors.push("事件比例總和不是 100%");if(!eventPlanIsValid(state.eventPlan))errors.push("每局事件排程不是 3 至 5 次唯一事件");if(document.querySelectorAll(".feedback-box").length)errors.push("回饋不應出現在初始畫面");console.info(errors.length?errors:"Self-check passed: HP-scaled unique questions, 15 events, 3-5 event battles.");return errors}
